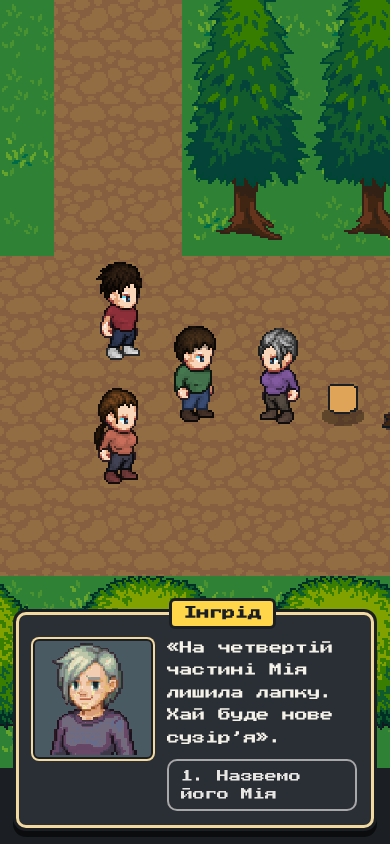
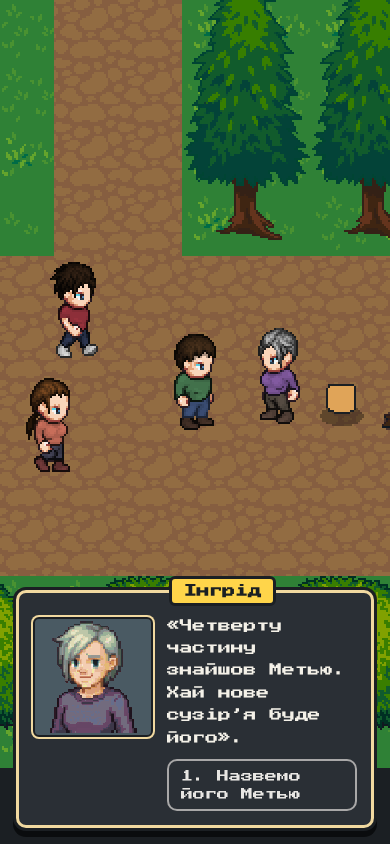
GAME-184: Мія лише з кішкою — варіанти камери Нори й зоряної карти, умова animal, спрайт Мії біля цілі, сторож MIA_CONTENT_UNGATED для прохань
Нейтральні рядки прохань; репліки про Мію — за гілкою { animal: animal.cat }; без кішки — рюкзак/Метью.
en/uk вирівняно, один жарт про логістику, «Ми врятували…», урок мандрівника в камері, «!» зникає після арки,
e2e: велосипед і авто з кішкою в обох орієнтаціях.

Claude-Session: https://claude.ai/code/session_01RoJJJhaZjeur2b1tUo6iMd

diff --git a/tests/e2e/game-184.spec.ts b/tests/e2e/game-184.spec.ts
@@ -7,11 +7,15 @@ import { readFileSync } from 'node:fs';
 import { expect, test, type Page } from '@playwright/test';
 
 interface Pt { x: number; y: number }
-interface Probe { saveLoaded: boolean; playerX: number; playerY: number; nearObject: string | null; residents: { id: string; x: number; y: number }[]; npcMarks: Record<string, string>; fx: { target: string | null; guide: string; pops: number } }
+interface Probe { miaAt: string[]; saveLoaded: boolean; playerX: number; playerY: number; nearObject: string | null; residents: { id: string; x: number; y: number }[]; npcMarks: Record<string, string>; fx: { target: string | null; guide: string; pops: number } }
 interface Core { game: { player: { locationId: string } | null; flags: string[]; dialogue: unknown }; journal: { type: string; ref?: string }[] }
 const probe = (page: Page): Promise<Probe> => page.evaluate(() => JSON.parse(JSON.stringify((window as unknown as { __game: { probe: Probe } }).__game.probe)) as Probe);
 const core = (page: Page): Promise<Core> => page.evaluate(() => (window as unknown as { __game: { read: () => Core } }).__game.read());
 const SHOTS = process.env.SHOTS === '1';
+const sounds = (page: Page): Promise<string[]> => page.evaluate(() => (window as unknown as { __game: { sounds: () => string[] } }).__game.sounds());
+/** Кого обирає гравець: велосипед (кішка лишається вдома з Анною — Мії в таборі нема) і авто з кішкою (Мія в таборі). */
+const VARIANTS = [{ key: 'bike', pick: /Велосипед/, cat: false }, { key: 'car-cat', pick: /Авто.*Кішка/, cat: true }] as const;
+const MIA_RE = /Мі[яїює]|Mia/u;
 const CAMP = 'loc.camp.lake';
 const SETTINGS_KEY = 'camplife.settings.v1';
 
@@ -87,7 +91,7 @@ async function act(page: Page, kind: string, key = ''): Promise<void> {
 }
 
 /** Дорога до табору — кнопками панелі (як game-180/183: екран подорожі не цей зріз); далі спостерігач ☰ і лише ноги (production mapFirst=1). */
-async function toCamp(page: Page, extra = ''): Promise<string[]> {
+async function toCamp(page: Page, extra = '', pick: RegExp = /Велосипед/): Promise<string[]> {
   const errors: string[] = [];
   page.on('pageerror', (e) => errors.push(e.message));
   page.on('console', (m) => { if (m.type() === 'error') errors.push(m.text()); });
@@ -95,7 +99,7 @@ async function toCamp(page: Page, extra = ''): Promise<string[]> {
   await page.goto('/?seed=7');
   await page.waitForFunction(() => (window as unknown as { __game?: { probe: { saveLoaded: boolean } } }).__game?.probe.saveLoaded === true, null, { timeout: 30_000 });
   await page.locator('[data-touch="story"]').click();
-  await panel(page).locator('[data-act="create"]', { hasText: /Велосипед|Bike/ }).first().click();
+  await panel(page).locator('[data-act="create"]', { hasText: pick }).first().click();
   await page.waitForTimeout(400);
   for (const [k, key] of [['complete', 'q.prologue-home-001'], ['complete', 'q.st-001'], ['complete', 'q.st-002'], ['visit', 'loc.shop'], ['pickup', 'item.tent'], ['pickup', 'item.sleeping-bag'],
     ['complete', 'q.st-003'], ['visit', 'loc.home'], ['complete', 'q.ch1-home-001'], ['visit', 'loc.road'], ['complete', 'q.st-004'], ['visit', 'loc.camp.lake']] as const) await act(page, k, key);
@@ -123,18 +127,20 @@ interface Req {
   id: string; giver: string; name: string; targets: string[]; track: string; goal: string; reward: string;
   /** кінцева відповідь здачі (кнопка, що ставить «здано») і рядок, який має прозвучати наприкінці */
   doneChoice: RegExp; closing: RegExp; shotName?: string;
+  /** ціль, біля якої стоїть Мія (лише з кішкою) */
+  miaSpot?: string;
 }
 interface Arc { key: string; first: Req; follow: Req }
 const ARCS: Arc[] = [
   {
     key: 'nora',
     first: { id: 'req.nora-shore', giver: 'npc.nora', name: 'Нора', targets: ['req.nora-shore.t1', 'req.nora-shore.t2', 'req.nora-shore.t3'], track: 'Сміття', goal: 'Збери три шматки сміття на березі.', reward: '+15 досвіду · +10 ОМ', doneChoice: /Нема за що/, closing: /Чистий берег/ },
-    follow: { id: 'req.nora-camera', giver: 'npc.nora', name: 'Нора', targets: ['req.nora-camera.t1'], track: 'Камера', goal: 'Знайди Норину камеру. Востаннє її бачили там, де лежить Мія.', reward: '+20 досвіду · +12 ОМ', doneChoice: /Мія просто охороняла/, closing: /не камеру, а мою мрію/, shotName: 'nora-camera' },
+    follow: { id: 'req.nora-camera', giver: 'npc.nora', name: 'Нора', targets: ['req.nora-camera.t1'], track: 'Камера', goal: 'Знайди Норину камеру. Востаннє її бачили на галявині.', reward: '+20 досвіду · +12 ОМ', doneChoice: /Гарний вийшов пошук/, closing: /не камеру, а мою мрію/, shotName: 'nora-camera', miaSpot: 'req.nora-camera.t1' },
   },
   {
     key: 'ingrid',
     first: { id: 'req.ingrid-birds', giver: 'npc.ingrid', name: 'Інгрід', targets: ['req.ingrid-birds.t1'], track: 'Птахи', goal: 'Постій тихо на причалі й подивись на птахів.', reward: '+15 досвіду · +10 ОМ', doneChoice: /Було тихо/, closing: /моделями/ },
-    follow: { id: 'req.ingrid-starmap', giver: 'npc.ingrid', name: 'Інгрід', targets: ['req.ingrid-starmap.t1', 'req.ingrid-starmap.t2', 'req.ingrid-starmap.t3', 'req.ingrid-starmap.t4'], track: 'Карта', goal: 'Збери чотири частини зоряної карти Інгрід. Четверту принесла Мія.', reward: '+20 досвіду · +12 ОМ', doneChoice: /Назвемо його Мія/, closing: /все небо над озером/, shotName: 'ingrid-starmap' },
+    follow: { id: 'req.ingrid-starmap', giver: 'npc.ingrid', name: 'Інгрід', targets: ['req.ingrid-starmap.t1', 'req.ingrid-starmap.t2', 'req.ingrid-starmap.t3', 'req.ingrid-starmap.t4'], track: 'Карта', goal: 'Збери чотири частини зоряної карти Інгрід.', reward: '+20 досвіду · +12 ОМ', doneChoice: /Назвемо його (Мія|Метью)/, closing: /все небо над озером/, shotName: 'ingrid-starmap', miaSpot: 'req.ingrid-starmap.t4' },
   },
   {
     key: 'luc',
@@ -185,7 +191,7 @@ async function doTarget(page: Page, r: Req, spot: string, i: number): Promise<vo
 }
 
 /** Повний шлях: «!» → розмова → картка → «Беруся» → трекер → цілі → просильник → (сцена) → здача → журнал. */
-async function playRequest(page: Page, r: Req, o: { orientation: string; follow: boolean }): Promise<void> {
+async function playRequest(page: Page, r: Req, o: { orientation: string; follow: boolean; cat?: boolean; tag?: string }): Promise<void> {
   await openTalk(page, r);
   await toCard(page);
   const card = panel(page).locator('[data-ui="req-card"]');
@@ -194,13 +200,20 @@ async function playRequest(page: Page, r: Req, o: { orientation: string; follow:
   const geo = await page.evaluate(() => { const c = document.querySelector('[data-ui="req-card"]')?.getBoundingClientRect(); return { right: c?.right ?? 0, left: c?.left ?? 0, vw: innerWidth, scrollW: document.documentElement.scrollWidth }; });
   expect(geo.scrollW, 'без горизонтальної прокрутки').toBeLessThanOrEqual(geo.vw);
   expect(geo.right <= geo.vw + 1 && geo.left >= -1, 'картка в межах екрана').toBe(true);
+  const cardText = (await card.textContent()) ?? '';
   await panel(page).locator('[data-act="choose"]', { hasText: 'Беруся' }).click();
   await page.waitForTimeout(450);
   await closeTalk(page);
   expect((await core(page)).game.flags).toContain(flag(r.id, 'taken'));
+  const shown: string[] = [cardText];   // усі рядки, які побачив гравець у цій історії: без кішки в них не буває Мії
+  if (r.miaSpot) expect((await probe(page)).miaAt, o.cat ? 'Мія намальована біля цілі (існуючий спрайт кішки)' : 'без кішки Мії на мапі нема').toEqual(o.cat ? [r.miaSpot] : []);
   const row = page.locator(`[data-ui="req-row"][data-request="${r.id}"]`);
   await expect(row, 'трекер є').toHaveText(`${r.track} 0/${r.targets.length}`);
-  for (const [i, spot] of r.targets.entries()) await doTarget(page, r, spot, i);
+  for (const [i, spot] of r.targets.entries()) {
+    await doTarget(page, r, spot, i);
+    if (r.id === 'req.luc-radio') expect(await sounds(page), 'дроти з’єднано — єдиний аудіомодуль зіграв «підтвердження»').toContain('ui-confirmation');
+  }
+  if (r.miaSpot) await expect.poll(async () => (await probe(page)).miaAt, { message: 'ціль зроблена — Мія вже не там' }).toEqual([]);
   await expect(row).toHaveAttribute('data-ready', 'yes');
   expect((await probe(page)).fx.target, 'усе зроблено — стрілка веде до просильника').toBe(r.giver);
   const pops = (await probe(page)).fx.pops;
@@ -208,11 +221,18 @@ async function playRequest(page: Page, r: Req, o: { orientation: string; follow:
   const done = panel(page).locator('[data-act="choose"]', { hasText: r.doneChoice });
   for (let i = 0; i < 10 && !(await done.isVisible()); i++) {
     const pick = panel(page).locator('[data-act="choose"]').first();
+    shown.push((await panel(page).locator('[data-ui="line"]').textContent({ timeout: 800 }).catch(() => '')) ?? '');
     if (await pick.isVisible()) await pick.click(); else await panel(page).locator('[data-act="continue"]').click();   // «Ходімо» до вогнища — вибір; решта — «Далі»
     await page.waitForTimeout(450);
   }
   await expect(done).toBeVisible();
-  if (o.follow && r.shotName && SHOTS) { await expect(box(page)).toHaveAttribute('data-typing', 'no', { timeout: 8_000 }); await page.screenshot({ path: `research/visual-audit/side-story-${r.shotName}-${o.orientation}.png` }); }
+  shown.push((await panel(page).locator('[data-ui="line"]').textContent({ timeout: 800 }).catch(() => '')) ?? '', (await done.textContent()) ?? '');
+  if (o.follow && r.miaSpot) {
+    const mia = shown.filter((t) => MIA_RE.test(t));
+    if (o.cat) expect(mia.length, 'з кішкою Мія звучить у сцені здачі').toBeGreaterThan(0);
+    else expect(mia, 'без кішки в історії жодної згадки Мії').toEqual([]);
+  }
+  if (o.follow && r.shotName && SHOTS) { await expect(box(page)).toHaveAttribute('data-typing', 'no', { timeout: 8_000 }); await page.screenshot({ path: `research/visual-audit/side-story-${r.shotName}${o.tag ?? ''}-${o.orientation}.png` }); }
   await done.click();
   await page.waitForTimeout(450);
   await expect(panel(page).locator('[data-ui="line"]')).toContainText(r.closing);
@@ -222,6 +242,7 @@ async function playRequest(page: Page, r: Req, o: { orientation: string; follow:
   expect(c.journal.some((e) => e.type === 'Memory' && e.ref === flag(r.id, 'done')), 'запис у журналі').toBe(true);
   await expect.poll(async () => (await probe(page)).fx.pops, { message: '«+» над героєм' }).toBeGreaterThan(pops);
   await expect(row).toHaveCount(0);
+  if (o.follow) await expect.poll(async () => (await probe(page)).npcMarks[r.giver], { message: 'арка закрита — «!» зник', timeout: 5_000 }).not.toBe('request');
 }
 
 const ORIENTATIONS = [
@@ -234,14 +255,14 @@ for (const o of ORIENTATIONS) {
     test.use({ viewport: o.viewport, hasTouch: false, isMobile: false });
     test.setTimeout(900_000);
 
-    for (const arc of ARCS) {
-      test(`${arc.follow.id}: перше прохання → продовження (нове «!») → цілі → здача, лише ногами, ☰ жодного разу`, async ({ page }) => {
-        const errors = await toCamp(page);
+    for (const arc of ARCS) for (const v of arc.key === 'luc' ? VARIANTS.slice(0, 1) : VARIANTS) {
+      test(`${arc.follow.id} (${v.key}): перше прохання → продовження (нове «!») → цілі → здача, лише ногами, ☰ жодного разу`, async ({ page }) => {
+        const errors = await toCamp(page, '', v.pick);
         await playRequest(page, arc.first, { orientation: o.name, follow: false });
         // Продовження відкрилось: «!» повернувся до тієї самої людини, а нових цілей до розмови ще нема.
         await expect.poll(async () => (await probe(page)).npcMarks[arc.follow.giver], { message: 'продовження: «!» повернувся', timeout: 5_000 }).toBe('request');
         expect((await core(page)).game.flags).not.toContain(flag(arc.follow.id, 'taken'));
-        await playRequest(page, arc.follow, { orientation: o.name, follow: true });
+        await playRequest(page, arc.follow, { orientation: o.name, follow: true, cat: v.cat, tag: v.cat ? '-cat' : '' });
         // Наклейка Атласу за історію: умова — прапорець «здано», показує її сторінка Атласу (журнал/Атлас у ☰ тут не відкриваємо).
         expect(await menuSeen(page), 'панель ☰ жодного разу не відкривалась, поки ішла історія').toEqual([]);
         expect(errors, 'без помилок у консолі').toEqual([]);

diff --git a/src/content/requests.test.ts b/src/content/requests.test.ts
@@ -12,7 +12,7 @@ import { exploreView, type Move } from './moves';
 import { GAME_DEFS } from './slice-defs';
 import { CONTENT, STORY } from './story';
 import mapRaw from '../../public/maps/camp-lake.tmj?raw';
-import { REQUESTS, REQUEST_FLAG_PREFIX, compileRequests, liveRequestSpot, requestFlag, requestMarker, requestOf, requestReward, requestStatus, requestTarget, requestsDone, trackerRows, type RequestDef } from './requests';
+import { REQUESTS, REQUEST_FLAG_PREFIX, miaSpots, compileRequests, liveRequestSpot, requestFlag, requestMarker, requestOf, requestReward, requestStatus, requestTarget, requestsDone, trackerRows, type RequestDef } from './requests';
 import { liveSpot } from './director';
 import { storyOffer } from '../view/story-offer';
 import { STICKER_DEFS } from './stickers';
@@ -70,9 +70,9 @@ const PATH: Record<string, { offer: readonly string[]; turnin: readonly string[]
   'req.luc-chain': { offer: ['n', 'offer.c1', 'n'], turnin: ['n', 'turnin.c1', 'n'] },
   'req.sarah-snack': { offer: ['n', 'offer.c1', 'n'], turnin: ['n', 'turnin.c1', 'n'] },
   'req.elise-lantern': { offer: ['hello.req0', 'n', 'offer.c1', 'n'], turnin: ['hello.req0', 'n', 'turnin.c1', 'n'] },
-  // GAME-184 · продовження арок (after): пропозиція offer2, здача turnin2 (у Інгрід — сцена біля вогнища: «Ходімо» → два «Далі» → «Назвемо його Мія»)
-  'req.nora-camera': { offer: ['n', 'offer2.c1', 'n'], turnin: ['n', 'turnin2.c1', 'n'] },
-  'req.ingrid-starmap': { offer: ['n', 'offer2.c1', 'n'], turnin: ['n', 'turnin2.c1', 'n', 'n', 'sky3.c1', 'n'] },
+  // GAME-184 · продовження арок (after): пропозиція offer2, здача turnin2 (у Інгрід — сцена біля вогнища: «Ходімо» → два «Далі» → «Назвемо його Мія|Метью»; у Нори перед здачею — рядок found-mia|found-bag)
+  'req.nora-camera': { offer: ['n', 'offer2.c1', 'n'], turnin: ['n', 'n', 'n', 'turnin2.c1', 'n'] },   // gate → found → found-mia|found-bag → turnin2
+  'req.ingrid-starmap': { offer: ['n', 'offer2.c1', 'n'], turnin: ['n', 'turnin2.c1', 'n', 'n', '.c1', 'n'] },
   'req.luc-radio': { offer: ['n', 'offer2.c1', 'n'], turnin: ['n', 'turnin2.c1', 'n'] },
 };
 /** Перше (без `after`) прохання арки — і кроки, що ведуть до продовження (GAME-184). */
@@ -296,6 +296,49 @@ describe('GAME-180 · повний шлях кожного прохання на
     dialogue(['n', 'turnin.c1', 'n']);
     expect(sim.journal.filter((e) => e.type === 'Memory').map((e) => e.ref)).toEqual([r.doneFlag]);
   });
+});
+
+/** GAME-184 · Мія в історіях: кожна комбінація герой × транспорт × тварина бачить когерентний варіант тієї самої історії. */
+describe('GAME-184 · варіанти історій за твариною (Мія лише з кішкою)', () => {
+  const COMBOS = [
+    { label: 'велосипед, без кішки', profileId: 'profile.solo-explorer', transportId: 'transport.bike', animalId: undefined, cat: false },
+    { label: 'авто, без кішки', profileId: 'profile.solo-explorer', transportId: 'transport.car', animalId: undefined, cat: false },
+    { label: 'авто з кішкою', profileId: 'profile.family-teen', transportId: 'transport.car', animalId: 'animal.cat', cat: true },
+  ] as const;
+  const campAs = (c: (typeof COMBOS)[number]): GameState => play([{ type: 'CreateCharacter', profileId: c.profileId, transportId: c.transportId, ...(c.animalId ? { animalId: c.animalId } : {}) } as Move, ...TO_CAMP.slice(1)], initialState(5_000));
+  const nodesOf = (from: GameState, npcId: string, maxSteps: number): string[] => {
+    let s = play([{ type: 'Talk', npcId }], from); const seen: string[] = [];
+    for (let i = 0; i < maxSteps && s.dialogue; i++) { seen.push(s.dialogue.node); const r = send(s, { type: 'Continue' }); if (!r.ok) break; s = r.state; }
+    return seen;
+  };
+  for (const c of COMBOS) {
+    it(`${c.label}: камера Нори — Мія лише з кішкою (спрайт-ціль miaSpots, репліка found-mia), інакше «рюкзак Метью»; історія та сама`, () => {
+      const first = REQUESTS.find((r) => r.id === 'req.nora-shore') as RequestDef;
+      const cam = REQUESTS.find((r) => r.id === 'req.nora-camera') as RequestDef;
+      let s = complete(campAs(c), first);
+      expect(miaSpots(s), 'до «Беруся» Мії біля цілі нема').toEqual([]);
+      s = finish(say(s, cam.giver, (PATH[cam.id] as { offer: readonly string[] }).offer));
+      expect(miaSpots(s), 'кішка є — Мія на місці цілі; нема — ніхто').toEqual(c.cat ? ['req.nora-camera.t1'] : []);
+      s = touch(s, 'req.nora-camera.t1');
+      expect(miaSpots(s), 'ціль зроблена — Мія вже не на ній').toEqual([]);
+      expect(nodesOf(s, cam.giver, 4)).toEqual(['gate', 'found', c.cat ? 'found-mia' : 'found-bag', 'turnin2']);
+      s = finish(say(s, cam.giver, (PATH[cam.id] as { turnin: readonly string[] }).turnin));
+      expect(s.flags, 'та сама історія доходить до кінця').toContain(cam.doneFlag);
+    });
+    it(`${c.label}: зоряна карта — четверта частина: Мія з кішкою, інакше Метью; сцена біля вогнища та сама`, () => {
+      const first = REQUESTS.find((r) => r.id === 'req.ingrid-birds') as RequestDef;
+      const map = REQUESTS.find((r) => r.id === 'req.ingrid-starmap') as RequestDef;
+      let s = complete(campAs(c), first);
+      s = finish(say(s, map.giver, (PATH[map.id] as { offer: readonly string[] }).offer));
+      expect(miaSpots(s)).toEqual(c.cat ? ['req.ingrid-starmap.t4'] : []);
+      for (const t of map.targets) s = touch(s, t.spot);
+      expect(miaSpots(s)).toEqual([]);
+      s = say(s, map.giver, ['n', 'turnin2.c1', 'n', 'n']);   // gate → turnin2 → «Ходімо» → sky1 → sky2 → sky3-…
+      expect(s.dialogue?.node, 'репліка про четверту частину залежить від кішки').toBe(c.cat ? 'sky3-mia' : 'sky3-matthew');
+      s = finish(play([{ type: 'Choose', choice: 0 }], s));
+      expect(s.flags, 'обидві гілки ставлять «здано»').toContain(map.doneFlag);
+    });
+  }
 });
 
 describe('GAME-180 · правила на ядрі й режисері', () => {

diff --git a/src/view/world/scene.ts b/src/view/world/scene.ts
@@ -10,7 +10,7 @@ import { bindPhaser } from '../../audio';
 import { STEP_MS } from '../../core/clock';
 import { KEY_BINDINGS, KEY_CODES, TAP_MAX_MOVE, TAP_MAX_MS, actionTarget, consumeFrame, createActionGate, moveVector, press, release, tapHitsSpot, type Action, type ActionTarget, type InputState } from './actions';
 import type { Bridge } from './bridge';
-import type { WorldArt } from './art';
+import { PET_SHEETS, type WorldArt } from './art';
 import { COLS, FRAME, frameIndex, type Dir } from './character';
 import { FIRE_CORE, FIRE_GLOW, ambientAt, glowAlpha, timeOfDay } from './daylight';
 import { FOLLOW_SPEED_FACTOR, SPEED, centerOf, gridFromWalls, restPoints, stepFollowers, stepTo, tileOf, type Grid, type Pt } from './follow';
@@ -74,6 +74,8 @@ export interface WorldHooks {
   needs(): Needs;
   /** GAME-180: скільки прохань сусідів уже здано (по зростанню сцена показує «+» над героєм). Немає — прохань у грі нема. */
   requestsDone?(): number;
+  /** GAME-184: цілі прохань, біля яких зараз стоїть Мія (лише коли гравець їде з кішкою). Немає — кішки на мапі нема. */
+  pets?(): readonly string[];
   /** Транспорт гравця (авто малюється спрайтом на подвір'ї, велосипед — маркером). */
   transport(): string | null;
   /** GAME-181: підпис нагороди («+15 XP +10 ОМ»), що ще не показана над героєм; забирає її (наступний виклик — null). */
@@ -138,6 +140,8 @@ export interface WorldProbe {
   fx: { target: string | null; ring: number; ringName: string | null; backpack: number; guide: 'none' | 'line' | 'edge'; pops: number; auto: number; rewards: number; rewardLast: string };
   /** GAME-179 (лише для e2e): які маркери зараз над головами NPC — id → chat («…») / request («!»). */
   npcMarks: Record<string, NpcMarker>;
+  /** GAME-184: цілі прохань, біля яких намальована Мія (видимі спрайти). */
+  miaAt: string[];
 }
 
 /** Точка вогнища (об'єкт мапи obj.campfire) — центр світлої плями; нема — плями нема. */
@@ -182,6 +186,8 @@ export class WorldScene extends Phaser.Scene {
   private barkReadyAt: number[] = [];
   /** GAME-179: маркери «…»/«!» над NPC (малюнок і вид, за який він намальований) і NPC, що зараз дивиться на героя (повертається вниз, коли той відійде). */
   private doneSeen = -1;
+  /** GAME-184: Мія біля цілі прохання (за назвою об'єкта); створюється, коли потрібна. */
+  private miaSprites = new Map<string, Phaser.GameObjects.Sprite>();
   private npcMarks = new Map<string, { g: Phaser.GameObjects.Graphics; kind: NpcMarker | null }>();
   private faced: string | null = null;
   /** GAME-173: скільки секунд герой стоїть; точки дозвілля родини (null — у строю) і всі точки мапи; напрямок руху героя для строю. */
@@ -309,6 +315,7 @@ export class WorldScene extends Phaser.Scene {
     bindPhaser(this.sound);   // GAME-40: мікшер отримує вихід Phaser (звуки вже в кеші після preload)
     for (const [name, img] of Object.entries(this.art.tilesets)) this.textures.addImage(name, img);
     this.textures.addSpriteSheet('campfire', this.art.campfire, { frameWidth: FRAME, frameHeight: FRAME });
+    this.textures.addSpriteSheet('mia', this.art.mia, { frameWidth: PET_SHEETS.mia.frame, frameHeight: PET_SHEETS.mia.frame });   // GAME-147/184: кішка Мія (ART-020)
     this.addSheet('player', this.art.sheets.player);
     this.addSheet('elise', this.art.sheets.elise);
     for (const name of FOLLOWERS) this.addSheet(name, this.art.sheets[name]);
@@ -891,6 +898,13 @@ export class WorldScene extends Phaser.Scene {
     this.fx?.drawBackpack(this.hooks.backpack() > 0, this.player.x, this.player.y, this.facing);
     const veh = this.spots.find((x) => x.name === 'obj.vehicle');
     this.fx?.drawNeeds(veh?.x ?? 0, (veh?.y ?? 0) - 40, veh && this.hooks.isLive('obj.vehicle') ? needs : null);
+    const miaAt = new Set(this.hooks.pets?.() ?? []);
+    for (const name of new Set([...miaAt, ...this.miaSprites.keys()])) {
+      let sp = this.miaSprites.get(name);
+      const at = this.spots.find((x) => x.name === name);
+      if (!sp && miaAt.has(name) && at) { sp = this.add.sprite(at.x + 10, at.y, 'mia', name.includes('camera') ? 3 : 16).setOrigin(0.5, ORIGIN_Y).setDepth(at.y); this.miaSprites.set(name, sp); }   // лежить на камері / сидить із частиною карти
+      sp?.setVisible(miaAt.has(name));
+    }
     const doneNow = this.hooks.requestsDone?.() ?? 0;
     if (this.doneSeen >= 0 && doneNow > this.doneSeen) { this.fx?.pop(this.player.x, this.player.y, '+'); playUi('confirm'); }   // GAME-180: прохання здано — «+» над героєм
     this.doneSeen = doneNow;
@@ -929,6 +943,7 @@ export class WorldScene extends Phaser.Scene {
       playerDepth: this.player.depth,
       coveredTiles: covered,
       behindTiles: behind,
+      miaAt: [...this.miaSprites].flatMap(([n, sp]) => (sp.visible ? [n] : [])),
       npcMarks: Object.fromEntries([...this.npcMarks].flatMap(([id, m]) => (m.g.visible && m.kind ? [[id, m.kind] as const] : []))),
       fx: { target: tn, ring: this.ring.name ? this.ring.t : 0, ringName: this.ring.name, backpack: this.hooks.backpack(), guide: this.fx?.guideMode ?? 'none', pops: this.fx?.pops ?? 0, auto: this.autoCount, rewards: this.rewardPops, rewardLast: this.rewardLast },
     });

diff --git a/src/content/requests.ts b/src/content/requests.ts
@@ -10,18 +10,18 @@ import requestsRaw from '../../content/requests.json';
 import type { InteractionDef } from '../core/defs';
 import type { GameState } from '../core/state';
 
-export interface RequestTarget { readonly id: string; readonly spot: string; readonly icon: RequestIcon; readonly labelKey: string; readonly flag: string }
+export interface RequestTarget { readonly id: string; readonly spot: string; readonly icon: RequestIcon; readonly labelKey: string; readonly flag: string; /** GAME-184: у кого їде Мія, вона лежить/сидить біля цієї цілі (спрайт у сцені); решті — та сама ціль без неї. */ readonly mia?: boolean }
 export interface RequestReward { readonly xp: number; readonly om: number; readonly skills: readonly string[] }
 export interface RequestDef {
   readonly id: string; readonly giver: string; readonly after?: string; readonly titleKey: string; readonly goalKey: string; readonly trackKey: string;
   readonly targets: readonly RequestTarget[]; readonly reward: RequestReward; readonly takenFlag: string; readonly doneFlag: string;
 }
-export const REQUEST_ICONS = ['litter', 'bird', 'chain', 'lantern', 'cookie', 'apple', 'camera', 'star', 'paw', 'wire'] as const;
+export const REQUEST_ICONS = ['litter', 'bird', 'chain', 'lantern', 'cookie', 'apple', 'camera', 'star', 'wire'] as const;
 export type RequestIcon = (typeof REQUEST_ICONS)[number];
 
 interface RawRequest {
   id: string; giver: string; after?: string; titleKey: string; goalKey: string; trackKey: string;
-  targets: { id: string; spot: string; icon: RequestIcon; labelKey: string }[]; reward: RequestReward;
+  targets: { id: string; spot: string; icon: RequestIcon; labelKey: string; mia?: boolean }[]; reward: RequestReward;
 }
 
 /** Прапорець прохання: `req.nora-shore` + `taken` → `f.req-nora-shore-taken` (той самий формат у розмовах і в реєстрі). */
@@ -115,3 +115,9 @@ export const requestsDone = (g: GameState, rs: readonly RequestDef[] = REQUESTS)
 
 /** Нагорода прохання (дані; видає ядро при здачі). */
 export const requestReward = (id: string, rs: readonly RequestDef[] = REQUESTS): RequestReward | null => rs.find((r) => r.id === id)?.reward ?? null;
+
+/** GAME-184: цілі, біля яких стоїть Мія, — лише коли гравець їде з кішкою й ціль жива (прохання взято, ціль не зроблена). Імена об'єктів мапи для сцени. */
+export function miaSpots(g: GameState, rs: readonly RequestDef[] = REQUESTS): string[] {
+  if (g.player?.animalId !== 'animal.cat' || g.player.locationId !== REQUEST_LOCATION) return [];
+  return rs.flatMap((r) => r.targets.filter((t) => t.mia === true && g.flags.includes(r.takenFlag) && !g.flags.includes(r.doneFlag) && !g.flags.includes(t.flag)).map((t) => t.spot));
+}

diff --git a/src/main.ts b/src/main.ts
@@ -27,7 +27,7 @@ import { uiSounds } from './audio/ui-sounds';
 import { liveSpot, spotMove, storyMoves } from './content/director';
 import { portraitFor } from './view/portraits';
 import { headCrop, sheetOf } from './view/world/portrait-art';
-import { requestMarker, requestTarget, requestsDone } from './content/requests';
+import { miaSpots, requestMarker, requestTarget, requestsDone } from './content/requests';
 import { MAP_SPOTS, isBulky, isMapFirstSpot, mapKeyFor, needsLeft, nextTarget, npcLive, resolveSpot, spotLook, unpackMoves } from './content/map-first';
 import { packFlag } from './core/packing';
 import type { GameState } from './core/state';
@@ -39,7 +39,7 @@ if (!app) throw new Error('#app is missing');
 
 const probe: WorldProbe = { ready: false, playerX: 0, playerY: 0, nearObject: null, nearKind: null, commandsSent: 0, cameraScrollX: 0, cameraScrollY: 0, clockMinutes: 0, saveLoaded: false, cameraLerp: [0, 0], followers: [], leisure: [],
   playerFrame: 0, playerDir: 'down', playerMoving: false, playerDepth: 0, coveredTiles: 0, behindTiles: 0, fps: 0, fpsWindows: 0, firstFrameMs: 0,
-  residents: [], bark: null, barkCount: 0, npcMarks: {},
+  residents: [], bark: null, barkCount: 0, npcMarks: {}, miaAt: [],
   daylight: { on: false, visible: false, minuteOfDay: 0, darkness: 0, color: 0xffffff, glow: 0 },
   fx: { target: null, ring: 0, ringName: null, backpack: 0, guide: 'none', pops: 0, auto: 0, rewards: 0, rewardLast: '' } };
 // GAME-86: кожна команда ядру (дія екрана, розмова, взаємодія на мапі) → автозбереження одразу, а не лише на паузі.
@@ -234,6 +234,7 @@ const worldHooks: WorldHooks = {
   },
   look: (name) => spotLook(bridge.state, name),
   requestsDone: () => requestsDone(bridge.state.game),
+  pets: () => miaSpots(bridge.state.game),
   target: () => {
     if (targetFor !== bridge.state.game || targetPack !== backpack.length || targetMin !== bridge.state.clock.minutes) { targetFor = bridge.state.game; targetPack = backpack.length; targetMin = bridge.state.clock.minutes; // GAME-183: прохання в роботі (вибір гравця) — перше; далі крок сюжету. Збірка e2e без ?mapFirst=1 табір веде як раніше (лише прохання): ☰ там ще дає кроки.
       const at = bridge.state.game.player?.locationId;

diff --git a/src/view/world/art.ts b/src/view/world/art.ts
@@ -135,6 +135,8 @@ export const PET_SHEETS = {
 export interface WorldArt {
   readonly tilesets: Readonly<Record<string, HTMLImageElement>>;
   readonly campfire: HTMLImageElement;
+  /** GAME-184: лист кішки Mia (PET_SHEETS.mia), декодований заздалегідь — сцена додає його як спрайтшит. */
+  readonly mia: HTMLImageElement;
   readonly sheets: { readonly player: HTMLCanvasElement; readonly elise: HTMLCanvasElement; readonly victoria: HTMLCanvasElement; readonly matthew: HTMLCanvasElement };
   /** GAME-172: листи ходьби фонових мешканців за ключем RESIDENT_LOOKS. */
   readonly residents: Readonly<Record<string, HTMLCanvasElement>>;
@@ -147,10 +149,10 @@ export interface WorldArt {
 export async function loadWorldArt(): Promise<WorldArt> {
   const names = Object.keys(TILESET_IMAGES);
   const residentNames = Object.keys(RESIDENT_LOOKS) as (keyof typeof RESIDENT_LOOKS)[];
-  const [images, campfireImg, player, elise, victoria, matthew, residentSheets] = await Promise.all([
+  const [images, campfireImg, miaImg, player, elise, victoria, matthew, residentSheets] = await Promise.all([
     Promise.all(names.map((n) => loadImage(TILESET_IMAGES[n] ?? ''))),
-    loadImage(CAMPFIRE_SHEET), composeSheet(PLAYER_LOOK), composeSheet(ELISE_LOOK), composeSheet(FAMILY_LOOKS.victoria), composeSheet(FAMILY_LOOKS.matthew),
+    loadImage(CAMPFIRE_SHEET), loadImage(PET_SHEETS.mia.url), composeSheet(PLAYER_LOOK), composeSheet(ELISE_LOOK), composeSheet(FAMILY_LOOKS.victoria), composeSheet(FAMILY_LOOKS.matthew),
     Promise.all(residentNames.map((n) => composeSheet(RESIDENT_LOOKS[n]))),
   ]);
-  return { tilesets: Object.fromEntries(names.map((n, i) => [n, images[i] as HTMLImageElement])), campfire: campfireImg, sheets: { player, elise, victoria, matthew }, residents: Object.fromEntries(residentNames.map((n, i) => [n, residentSheets[i] as HTMLCanvasElement])) };
+  return { tilesets: Object.fromEntries(names.map((n, i) => [n, images[i] as HTMLImageElement])), campfire: campfireImg, mia: miaImg, sheets: { player, elise, victoria, matthew }, residents: Object.fromEntries(residentNames.map((n, i) => [n, residentSheets[i] as HTMLCanvasElement])) };
 }

diff --git a/src/guards/visual-audit.test.ts b/src/guards/visual-audit.test.ts
@@ -12,7 +12,7 @@ export const pairs = (md: string): string[] => md.split(/^### /m).filter((s) => 
 export const effectRows = (md: string): string[][] => md.split('\n').filter((l) => /^\|\s*\d+\s*\|/.test(l)).map((l) => l.split('|').slice(1, -1).map((c) => c.trim()));
 /** Знімки нашої сцени, названі в тексті. */
 export const shotsIn = (s: string): string[] => [...s.matchAll(/research\/visual-audit\/([\w.-]+\.png)/g)].map((m) => m[1] ?? '');
-export const OURS = /^((day|dusk|night|before-no-effect)-(portrait-390x844|landscape-844x390)|family-(idle|walking-to-spots)|camp-(spawn|pier|tents-south|reception|clearing|goal-arrow)-(portrait|landscape)|mapfirst-(portrait|landscape)-(ring|backpack|backpack-down|bike)|talk-(elise|luc)-(portrait|landscape)|progress-(portrait|landscape)-(goal|titleup|skills|summary)|request-(card|tracker)-(portrait|landscape)|intro-(portrait|landscape)-(rain|letter|pick|final)|atlas-(portrait|landscape)-page|side-story-(nora-camera|ingrid-starmap|luc-radio)-(portrait|landscape))\.png$/;   // GAME-173 родина; GAME-172 camp-* живий кемпінг; GAME-175 день 1 на мапі
+export const OURS = /^((day|dusk|night|before-no-effect)-(portrait-390x844|landscape-844x390)|family-(idle|walking-to-spots)|camp-(spawn|pier|tents-south|reception|clearing|goal-arrow)-(portrait|landscape)|mapfirst-(portrait|landscape)-(ring|backpack|backpack-down|bike)|talk-(elise|luc)-(portrait|landscape)|progress-(portrait|landscape)-(goal|titleup|skills|summary)|road-goal-arrow-(portrait|landscape)|request-(card|tracker)-(portrait|landscape)|intro-(portrait|landscape)-(rain|letter|pick|final)|atlas-(portrait|landscape)-page|side-story-(nora-camera|ingrid-starmap|luc-radio)(-cat)?-(portrait|landscape))\.png$/;   // GAME-173 родина; GAME-172 camp-* живий кемпінг; GAME-175 день 1 на мапі
 
 describe('research/visual-audit.md (GAME-99)', () => {
   it('файл прочитано', () => { expect(MD.length).toBeGreaterThan(500); });

diff --git a/src/ui/RequestCard.tsx b/src/ui/RequestCard.tsx
@@ -22,8 +22,6 @@ const ICONS: Readonly<Record<string, readonly R[]>> = {
   camera: [[2, 5, 12, 8, C.ink], [5, 3, 4, 2, C.ink], [6, 7, 4, 4, C.sky], [7, 8, 2, 2, C.cream], [11, 6, 2, 1, C.gold]],
   // частина зоряної карти: аркуш із зіркою
   star: [[2, 2, 12, 12, C.cream], [7, 4, 2, 8, C.gold], [4, 7, 8, 2, C.gold], [6, 6, 4, 4, C.gold], [2, 2, 12, 1, C.brown], [2, 13, 12, 1, C.brown]],
-  // лапка (частину принесла Мія)
-  paw: [[6, 8, 5, 5, C.brown], [3, 5, 2, 3, C.brown], [6, 3, 2, 3, C.brown], [9, 3, 2, 3, C.brown], [12, 5, 2, 3, C.brown]],
   // дроти радіо
   wire: [[1, 4, 6, 2, C.red], [7, 4, 2, 8, C.red], [9, 10, 6, 2, C.sky], [1, 12, 6, 2, C.sky], [6, 3, 4, 2, C.gold], [6, 11, 4, 2, C.gold]],
   // яблуко

diff --git a/src/core/defs.ts b/src/core/defs.ts
@@ -107,6 +107,8 @@ export type CondDef =
   | { readonly notFlag: string }
   | { readonly quest: string; readonly status: 'active' | 'completed' }
   | { readonly transport: string }
+  /** GAME-184: тварина гравця (`animal.cat` / `animal.none`). */
+  | { readonly animal: string }
   /** GAME-48: NPC, чия це розмова, пам'ятає факт (`m.назва`). У події в дорозі NPC немає — ніколи. */
   | { readonly remembers: string }
   | { readonly notRemembers: string }

diff --git a/src/core/story.ts b/src/core/story.ts
@@ -308,6 +308,7 @@ export function holds(c: CondDef, d: StoryDraft, p: PlayerState, npcId?: string)
   if ('notRemembers' in c) return !remembers(d, npcId, c.notRemembers);
   if ('quest' in c) return own(d.quests, c.quest)?.status === c.status;
   if ('transport' in c) return p.transportId === c.transport;
+  if ('animal' in c) return p.animalId === c.animal;
   if ('all' in c) return c.all.every((x) => holds(x, d, p, npcId));
   return c.any.some((x) => holds(x, d, p, npcId));
 }
